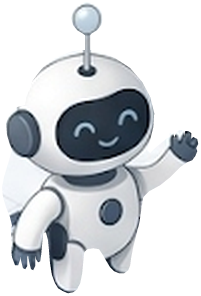
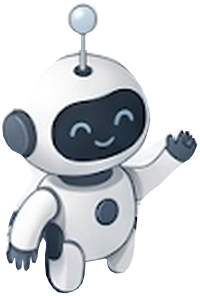
feat: add interactive HeroWorkflowGraphic component and robot mascot assets

diff --git a/frontend/src/components/landing/HeroWorkflowGraphic.tsx b/frontend/src/components/landing/HeroWorkflowGraphic.tsx
@@ -94,50 +94,6 @@ export default function HeroWorkflowGraphic({ onSelectStage }: HeroWorkflowGraph
 
   return (
     <div className="relative w-full max-w-[960px] mx-auto select-none">
-      {/* Floating Robot and Reactive Shadow Animations */}
-      <style>{`
-        @keyframes robotHoverFloat {
-          0%, 100% {
-            transform: translateY(0px) rotate(0deg);
-          }
-          50% {
-            transform: translateY(-16px) rotate(1.2deg);
-          }
-        }
-        @keyframes robotPadShadow {
-          0%, 100% {
-            transform: scale(1) rotate(-14deg) skewX(-24deg);
-            opacity: 0.42;
-          }
-          50% {
-            transform: scale(0.76) rotate(-14deg) skewX(-24deg);
-            opacity: 0.18;
-          }
-        }
-        @keyframes levitationGlow {
-          0%, 100% {
-            opacity: 0.45;
-            transform: scale(0.92);
-          }
-          50% {
-            opacity: 0.85;
-            transform: scale(1.18);
-          }
-        }
-        .animate-robot-floating {
-          animation: robotHoverFloat 3.8s ease-in-out infinite;
-          will-change: transform;
-        }
-        .animate-robot-shadow {
-          animation: robotPadShadow 3.8s ease-in-out infinite;
-          will-change: transform, opacity;
-        }
-        .animate-levitation-glow {
-          animation: levitationGlow 3.8s ease-in-out infinite;
-          will-change: transform, opacity;
-        }
-      `}</style>
-
       {/* Background ambient radial glow */}
       <div
         className="pointer-events-none absolute -inset-4 opacity-40 blur-2xl -z-10"
@@ -150,9 +106,9 @@ export default function HeroWorkflowGraphic({ onSelectStage }: HeroWorkflowGraph
       {/* Main Aspect Container (Clean 1160 / 560 = 2.0714 without any burned-in badges) */}
       <div className="relative w-full aspect-[1160/560] rounded-2xl overflow-hidden group">
         
-        {/* Crisp Retina 3D Isometric Artwork with Clean Plinth */}
+        {/* Crisp Retina 3D Isometric Artwork with Stationary Robot on Central Plinth */}
         <Image
-          src="/images/landing-ref/hero-network-base-light.png"
+          src="/images/landing-ref/hero-network-light@2x.png"
           alt="AutoNexa Connected 3D Pipeline Network"
           fill
           sizes="(max-width: 1024px) 100vw, 960px"
@@ -160,52 +116,6 @@ export default function HeroWorkflowGraphic({ onSelectStage }: HeroWorkflowGraph
           className="object-contain pointer-events-none select-none transition-transform duration-700 ease-out group-hover:scale-[1.01]"
           style={{ imageRendering: "-webkit-optimize-contrast" }}
         />
-
-        {/* Dynamic Holographic Levitation Beam & Ring on Plinth Pad */}
-        <div
-          className="pointer-events-none absolute -z-0 rounded-full animate-levitation-glow blur-[4px]"
-          style={{
-            left: "34.2%",
-            top: "58.4%",
-            width: "10.4%",
-            height: "4.5%",
-            background: "radial-gradient(ellipse at center, rgba(29, 78, 216, 0.4) 0%, rgba(99, 102, 241, 0.18) 60%, transparent 100%)",
-            transform: "rotate(-14deg) skewX(-24deg)",
-          }}
-        />
-
-        {/* Dynamic Reactive Floating Shadow on Plinth Pad */}
-        <div
-          className="pointer-events-none absolute -z-0 rounded-full bg-slate-900 animate-robot-shadow blur-[5px]"
-          style={{
-            left: "34.0%",
-            top: "58.6%",
-            width: "10.8%",
-            height: "4.4%",
-            transformOrigin: "center center",
-          }}
-        />
-
-        {/* The Floating Robot Mascot */}
-        <div
-          className="absolute pointer-events-none select-none animate-robot-floating z-10"
-          style={{
-            left: "29.74%",
-            top: "13.6%",
-            width: "17.33%",
-            height: "52.86%",
-          }}
-        >
-          <Image
-            src="/images/landing-ref/autonexa-robot-mascot-perfect.png"
-            alt="AutoNexa Floating Robot Mascot"
-            fill
-            sizes="220px"
-            priority
-            className="object-contain drop-shadow-[0_12px_28px_rgba(29,78,216,0.18)]"
-            style={{ imageRendering: "-webkit-optimize-contrast" }}
-          />
-        </div>
 
         {/* ===================================================================
             SVG MOVABLE ANIMATED ENERGY FLOW OVERLAY
